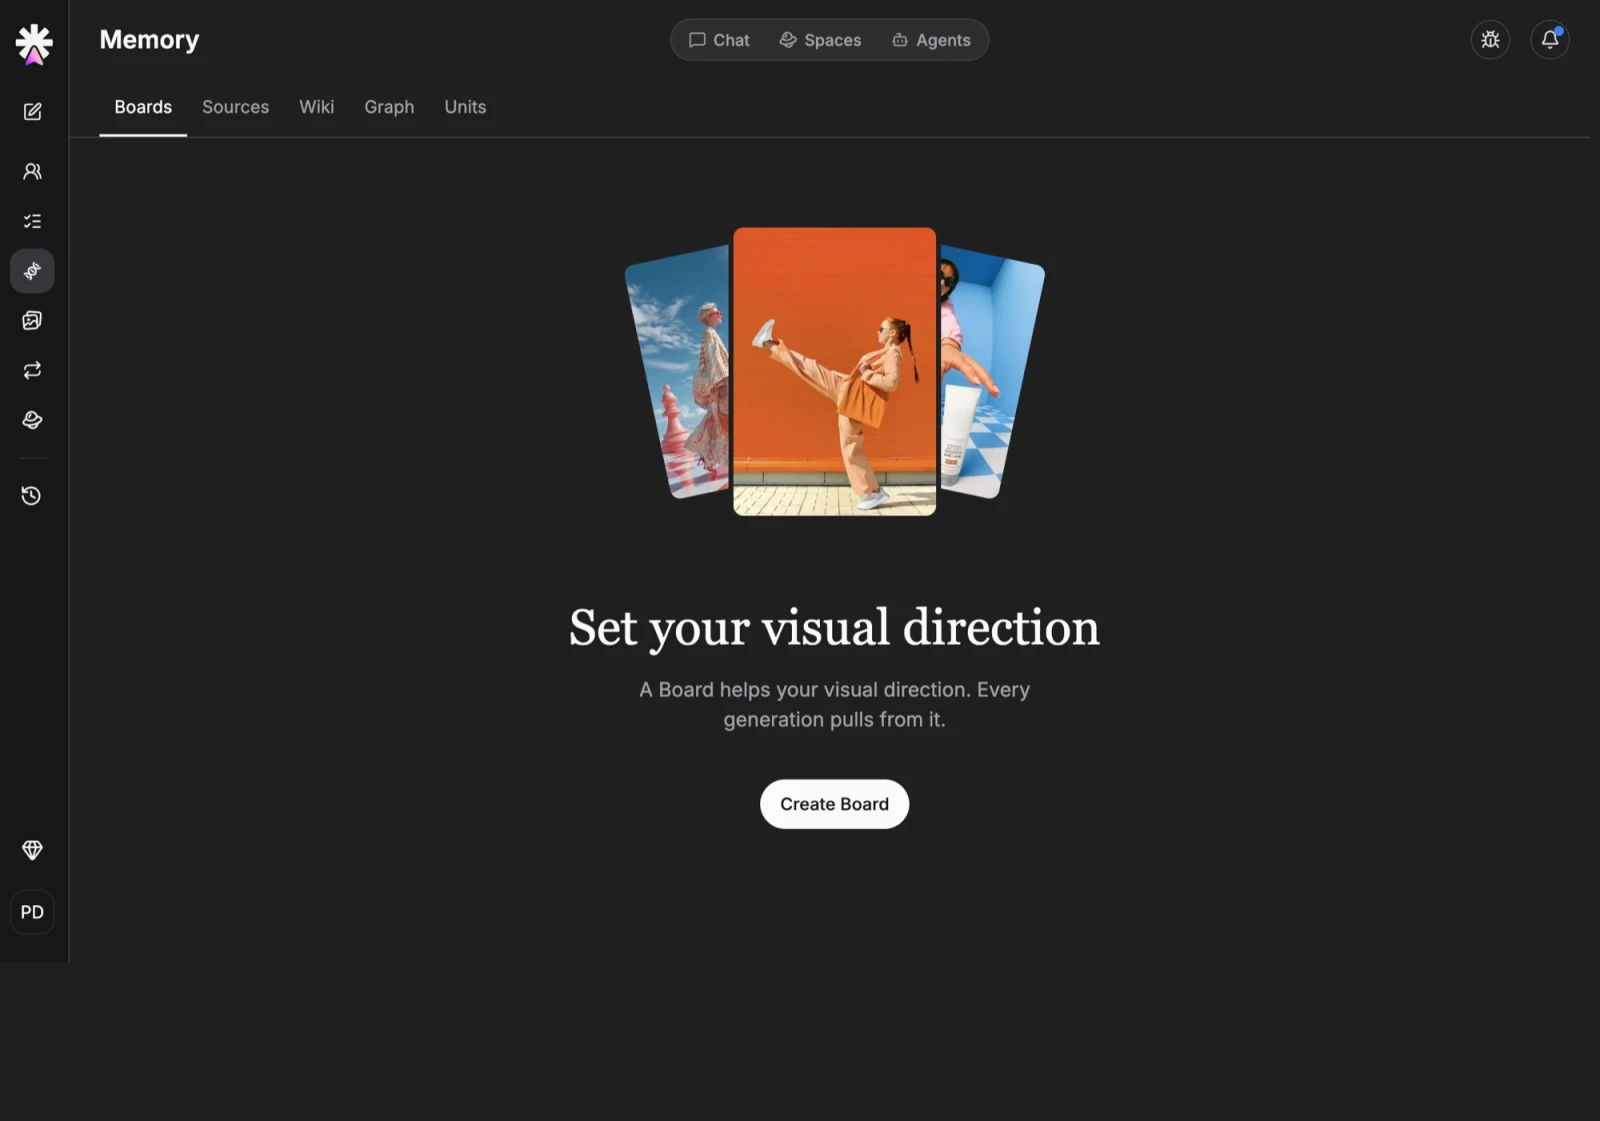
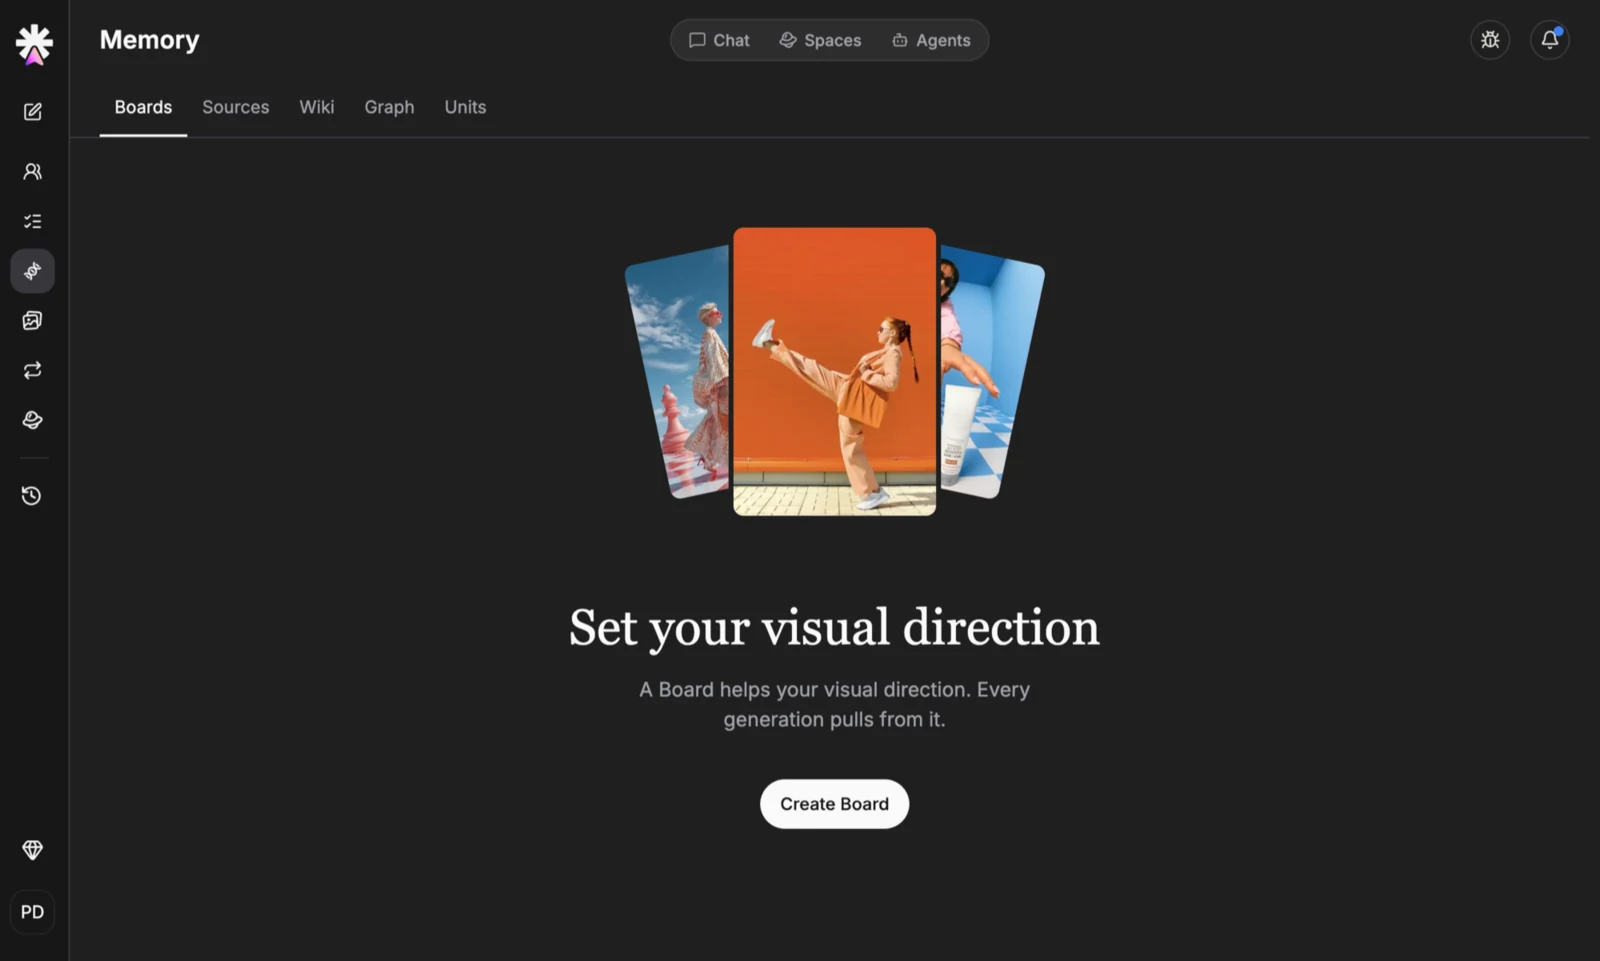
Show the empty board as it stands today
The screenshot was of an older Memory shell. Swapped in the current one —
same state, nothing generated yet, "Set your visual direction" asked of
someone with no way to answer it — and corrected the recorded height, since
the new capture is a shorter frame than the one it replaces.

diff --git a/src/content/site.ts b/src/content/site.ts
@@ -1150,7 +1150,7 @@ export const projects: Project[] = [
                   note: "The empty board: set your visual direction, said to someone who has not generated anything yet and has no way of knowing what direction they want.",
                   src: "/case-studies/brand-memory/empty-board.webp",
                   width: 1600,
-                  height: 1121,
+                  height: 961,
                 },
               ],
             },
